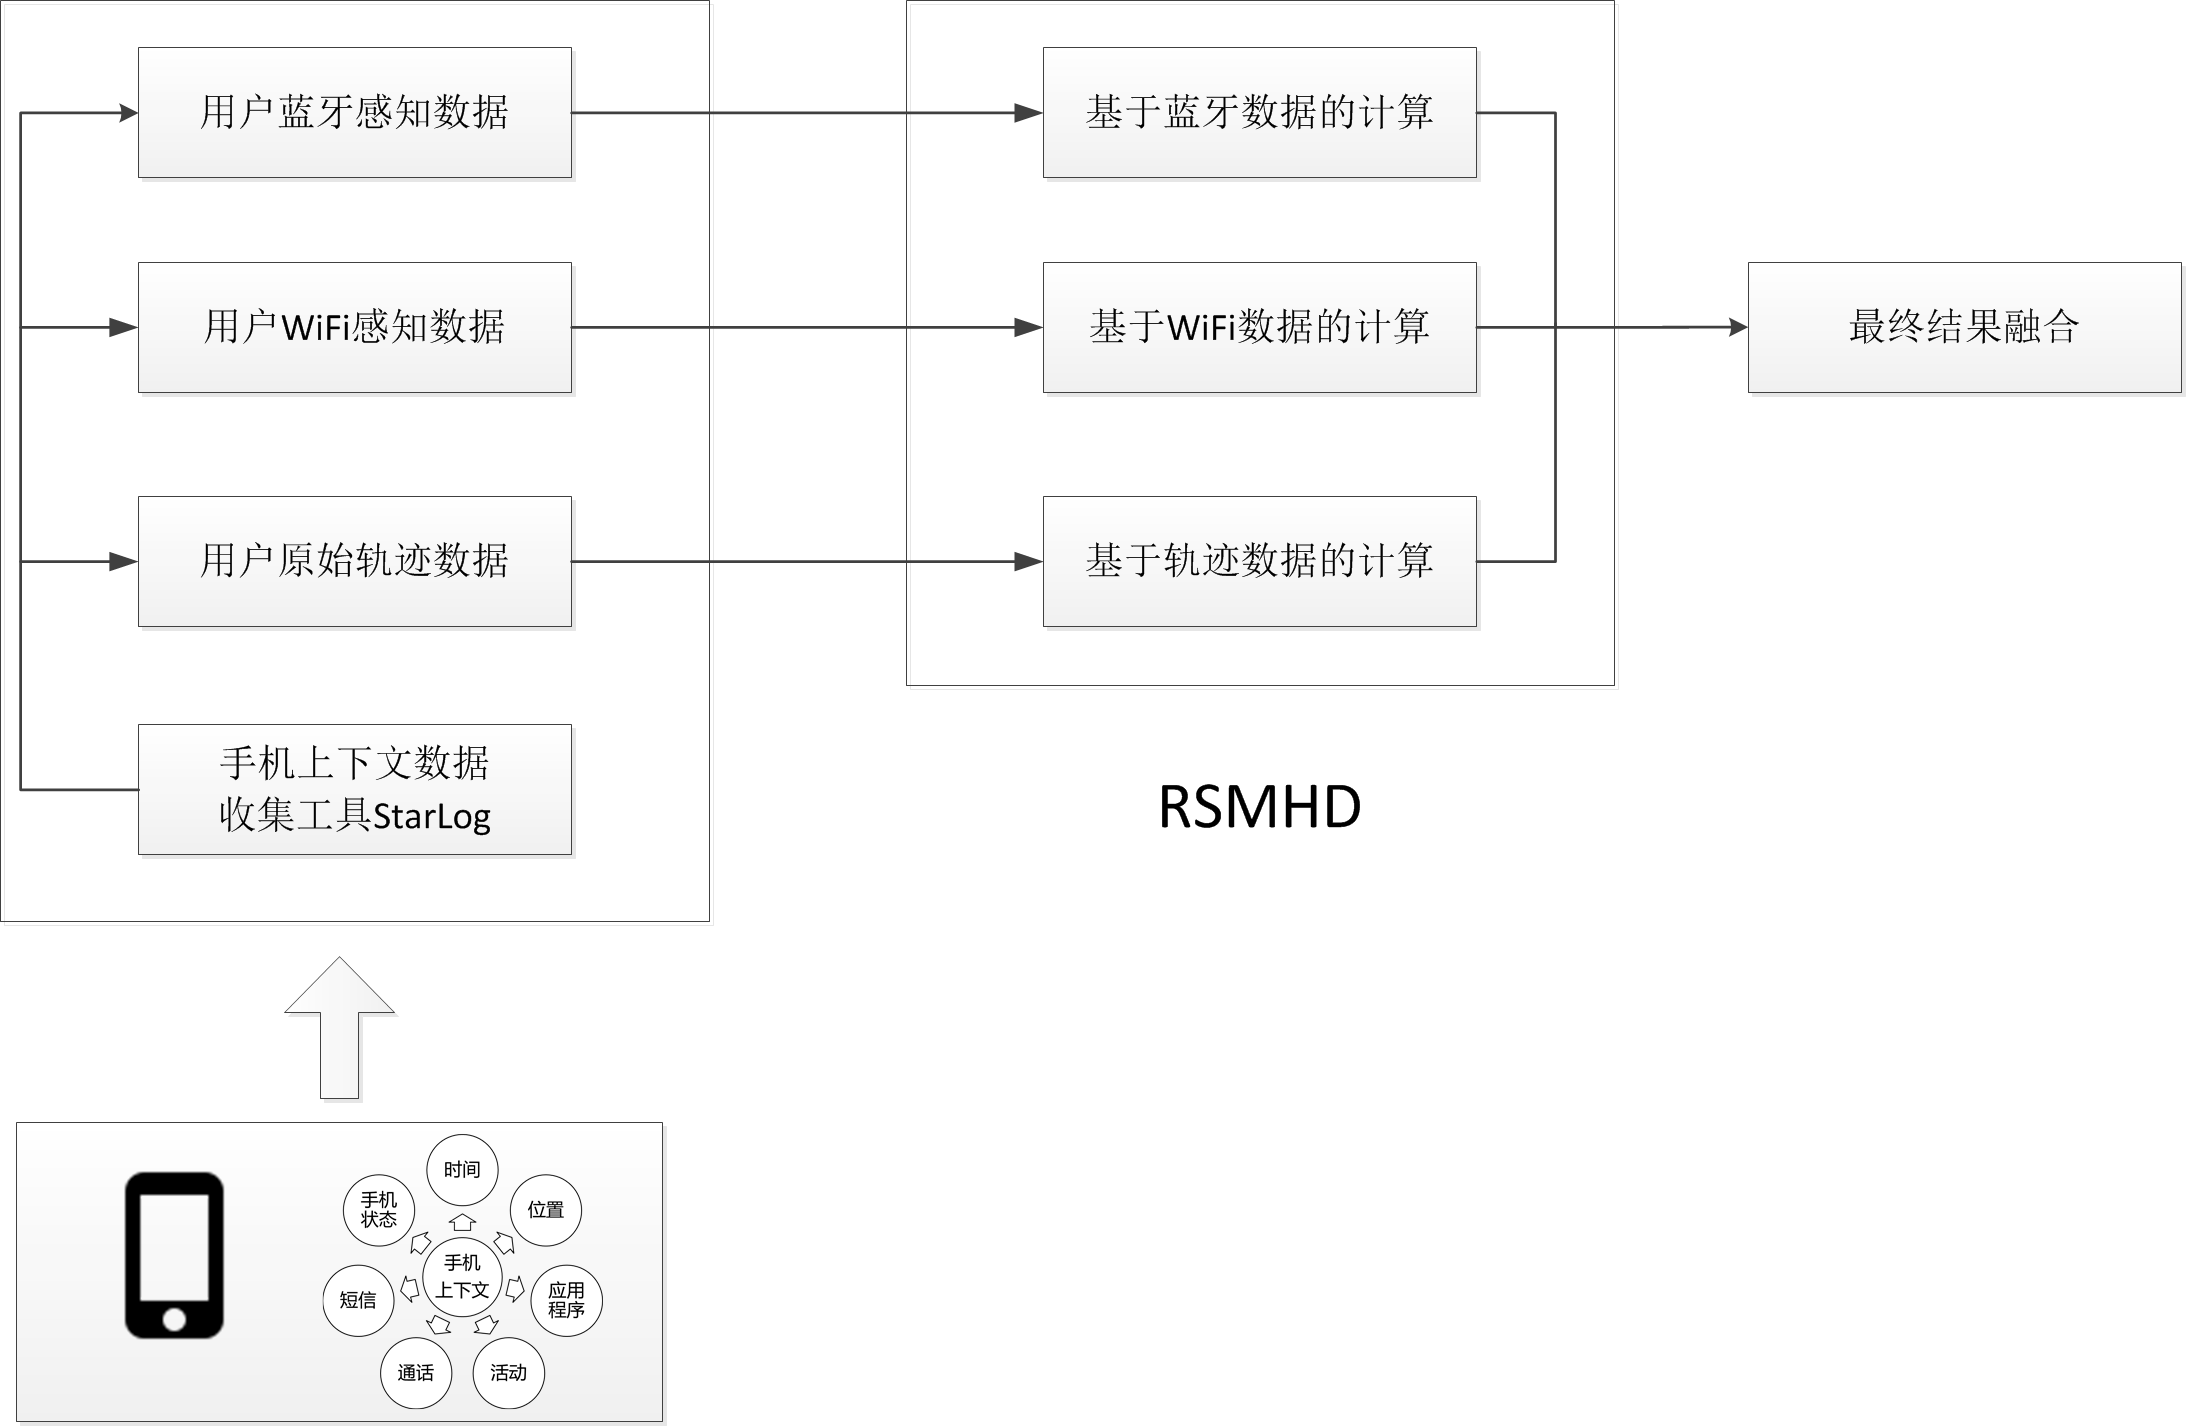
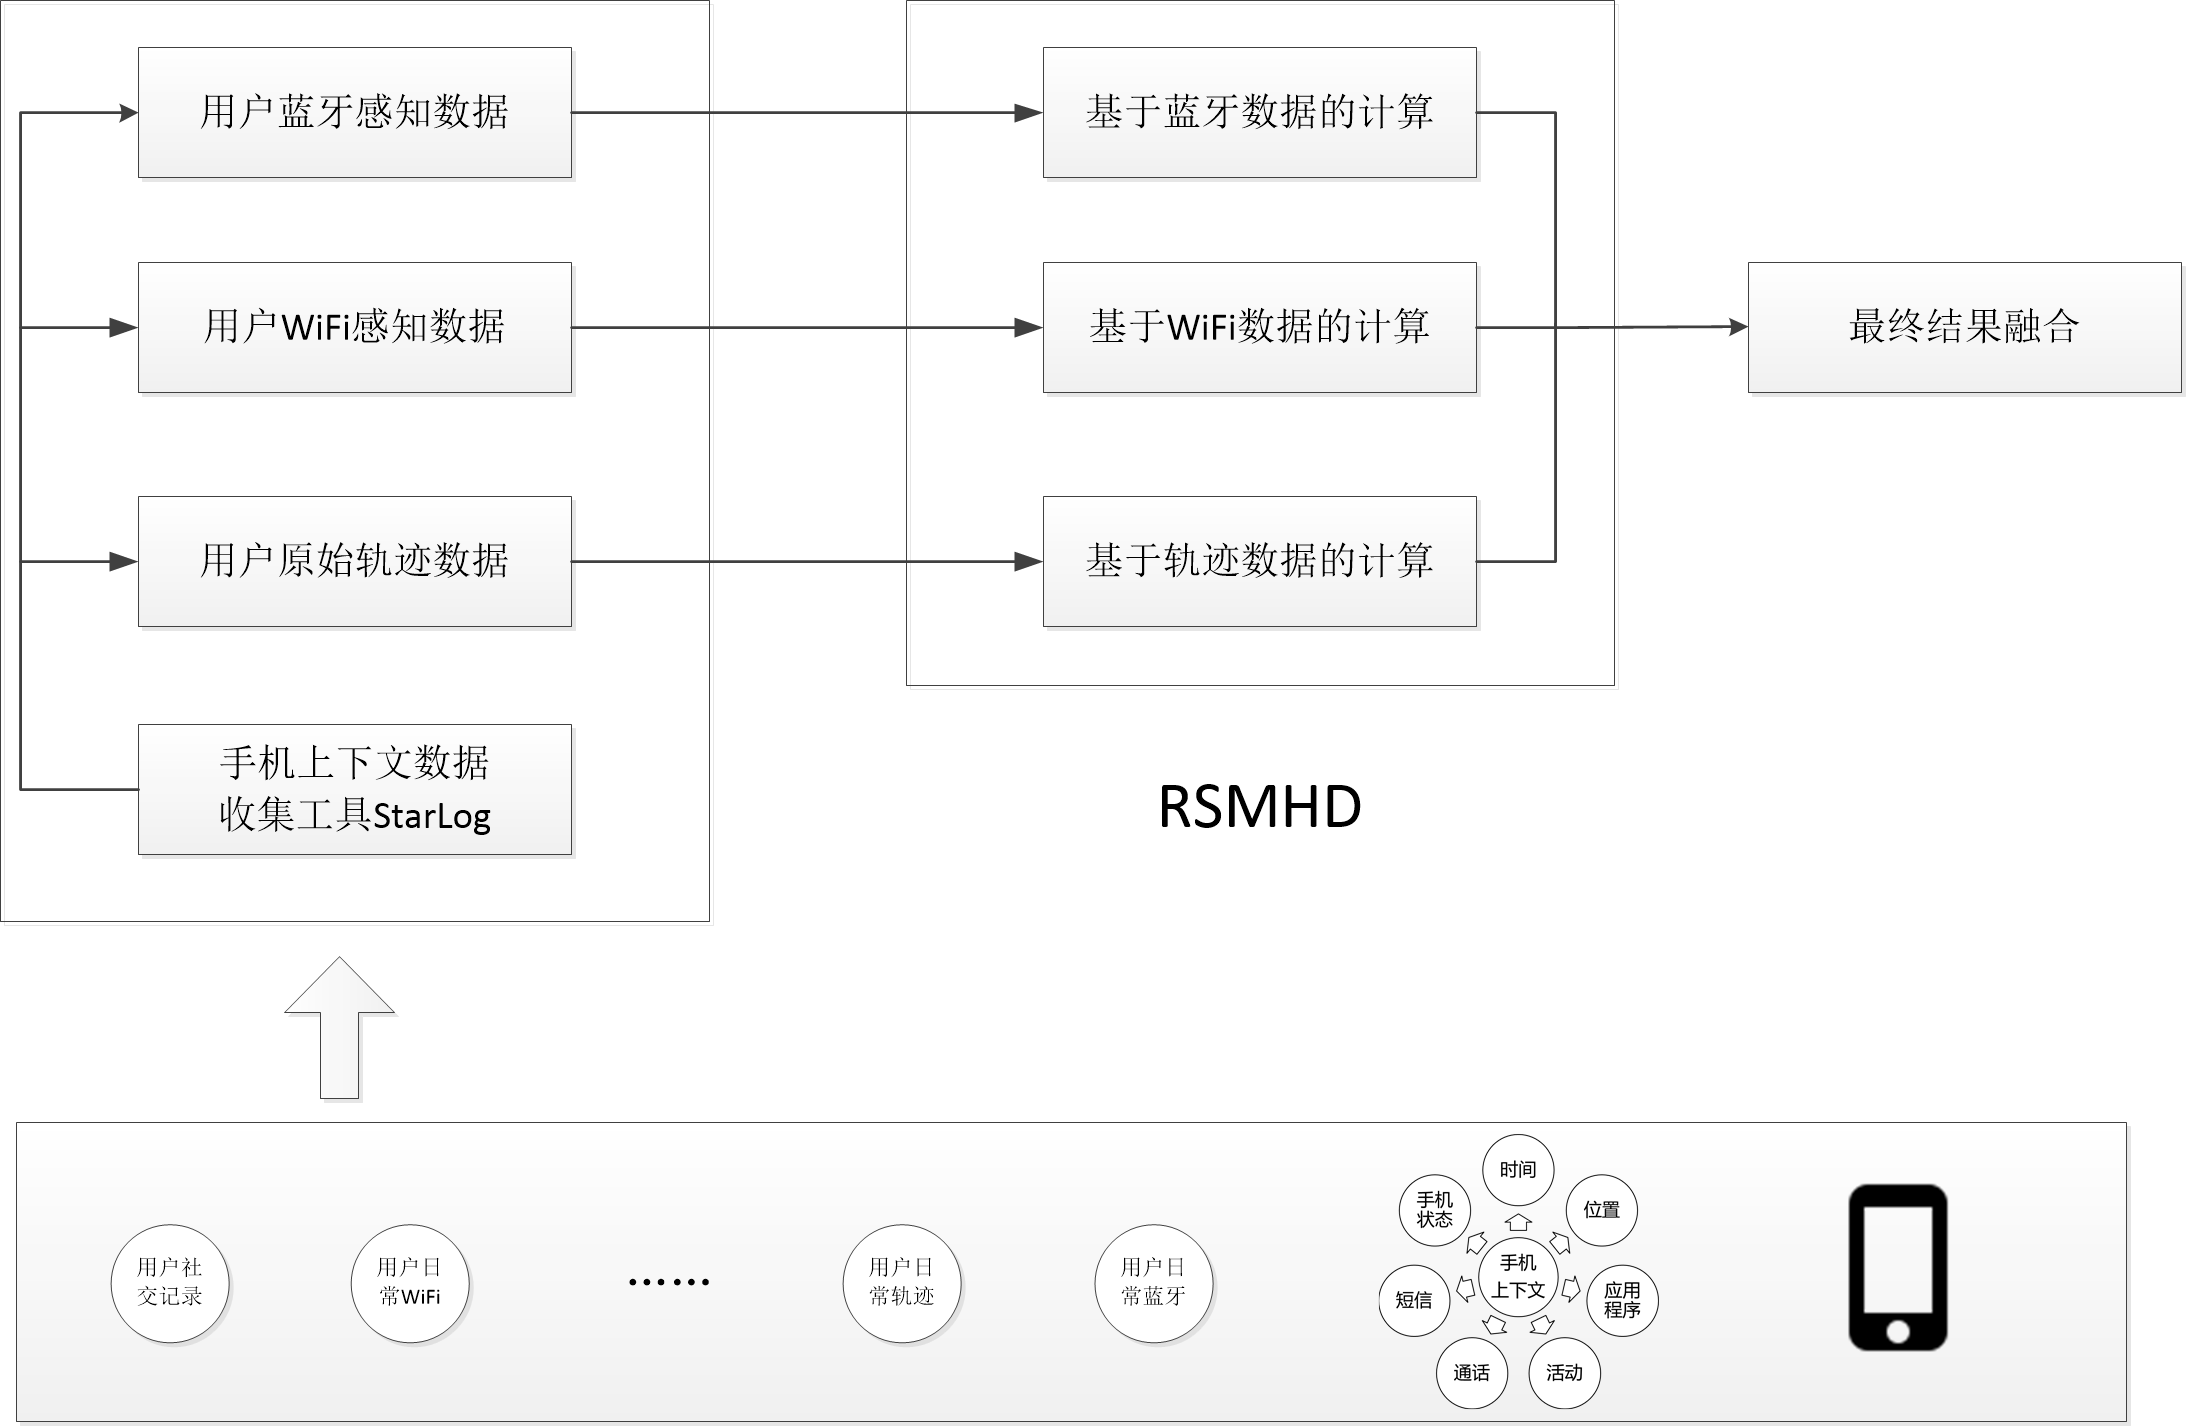
接着写section 框架

diff --git a/data/chap02.tex b/data/chap02.tex
@@ -304,7 +304,7 @@ AMVD(A,B)=\frac{1}{\left | A \right |}\sum_{\forall a_{i} \in A}^{ }  \mathop{\a
 上一章详细介绍了和本研究数据源相关的处理技术与方法，接下来这一章将主要介绍RSMHD的多维据源多维度的关系度量模型的整体框架结构。
 \section{RSMHD模型框架描述}
 \label{sec:section7-1}
-%本研究的主要内容是通过采集到的用户感知数据（GPS轨迹信息 、WiFi数据、蓝牙数据）来开展用户之间的关系强度度量工作。因此本文希望能够提供一种基于上述感知数据建立的通用的用户关系强度，
+本研究的主要内容是通过采集到的用户感知数据（GPS轨迹信息 、WiFi数据、蓝牙数据）来开展用户之间的关系强度度量工作。因此本文希望能够提供一种基于此类非社交的感知数据建立的通用的用户关系强度计算框架。非社交数据主要是指不是来自于用户直接社交活动中所收集到的数据，在本研究中主要包含了用户轨迹数据、用户WiFi感知数据和用户蓝牙感知数据。因此本课题基于以上三种不同的感知数据源提出了能够统一处理多种数据源的计算框架。
 本课题主要目标是利用用户的轨迹数据度量用户之间的关系强度。轨迹数据分为GPS数据和基站数据两种，本课题尝试提出一个通用的关系强度计算模型框架，希望能够使用同一个框架处理GPS数据和基站数据，见图\ref{fig:7_1}。但是GPS数据和基站数据在数据特性上有非常大的区别，GPS 是连续实数值，且有实际物理意义，而基站数据只是一个标号，数值本身没有实际物理意义，需要分别对GPS数据和基站数据进行处理，GPS数据相较于基站数据而言，表示的物理位置更加精确，故需要一些额外的方法获取GPS 数据的高层信息，比如物理位置、语义标签等。GPS采样本身仍然存在误差，需要使用一定的方法来降低采样数据的误差。GPS数据相较基站数据而言，需要更多的处理，一方面降低自身的误差，另一方面获取更高层信息。第四章将主要描述如何处理GPS数据以及如何获取更高层信息，对应该模型框架左边的SASLL系统。第五章将主要描述如何使用轨迹数据度量用户之间的关系强度，本课题主要从原始轨迹数据、语义位置、语义标签三个层次来度量用户之间的关系强度，每一层输入数据的准备过程将在第四章第二节详细描述，GPS 数据的准备过程基于第四章提出的相关的处理技术。同样基站数据作为模型三层输入数据的准备过程也将在第四章第二节详细描述，基站数据的处理非常简单，不需要额外的技术，该模型右边相关模块简要说明了基站数据对应的三层模型输入数据的处理过程。
 \begin{figure}[htp]
 \centering
